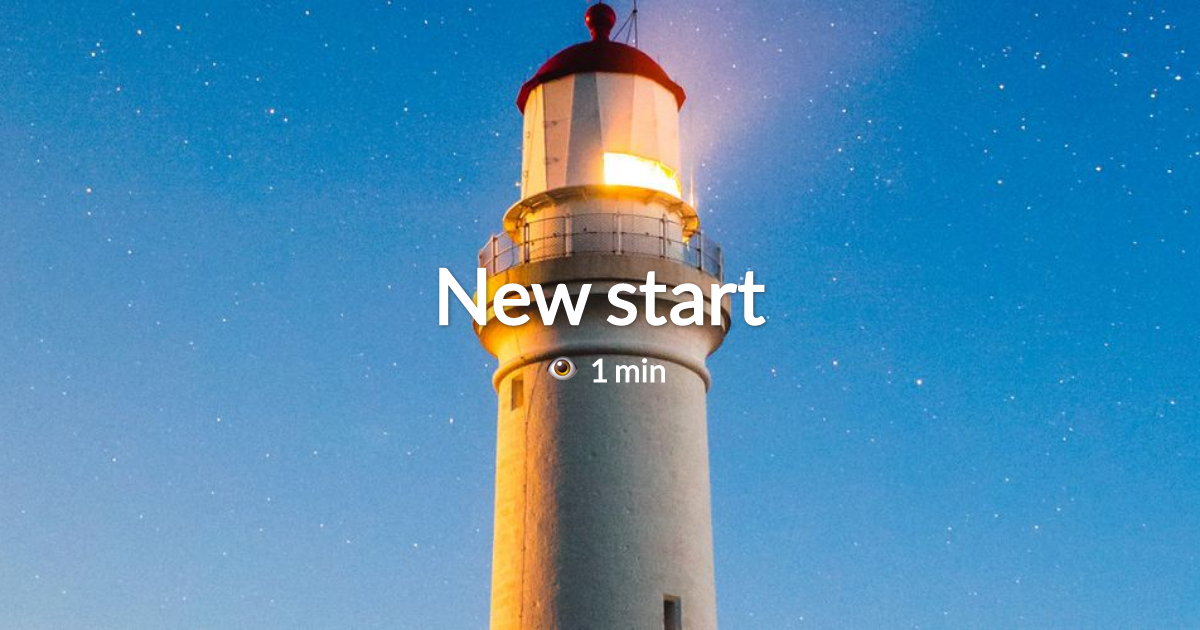
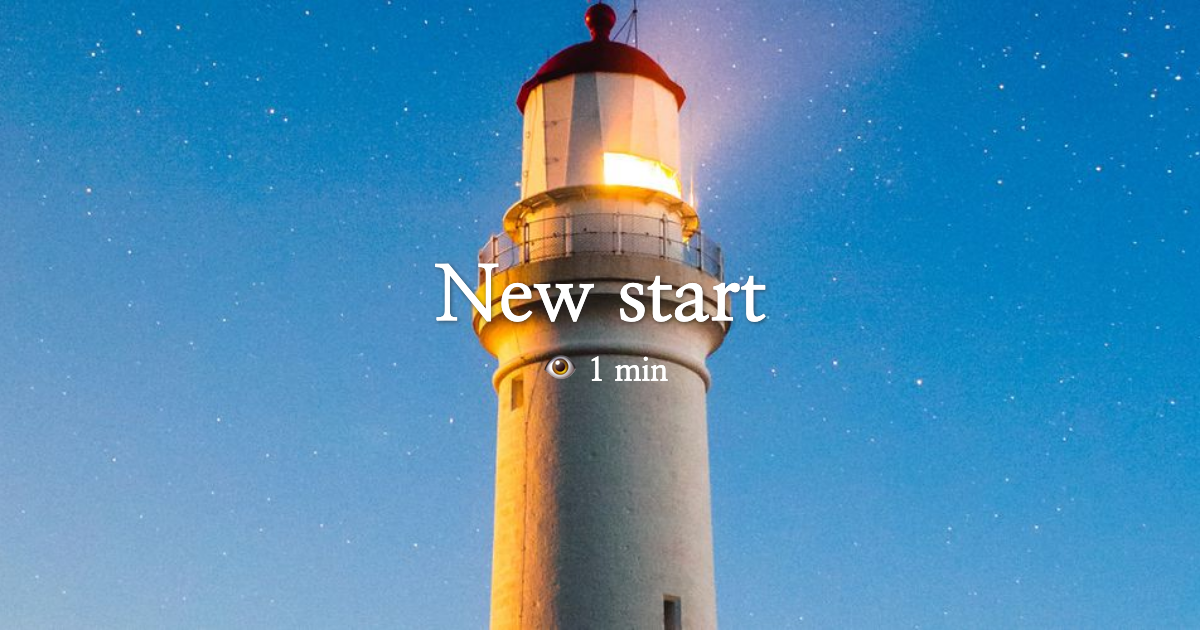
Apply webfont.

Changed region(s): [[0.3392, 0.4222, 0.6475, 0.5429], [0.4317, 0.573, 0.555, 0.6032]]

diff --git a/src/components/Content.js b/src/components/Content.js
@@ -69,8 +69,8 @@ const ContentBody = styled.div`
     margin-right: -1em;
     margin-left: -1em;
     padding-right: 1em;
-    padding-left: .75em;
-    border-left: .25em solid #ffa7c4;
+    padding-left: 0.75em;
+    border-left: 0.25em solid #ffa7c4;
   }
 
   & p > code.language-text,
@@ -92,7 +92,7 @@ const ContentBody = styled.div`
     & td {
       padding: 0.5em;
       background: #e8e8e8;
-      border-bottom: 2px solid white; 
+      border-bottom: 2px solid white;
     }
   }
 `

diff --git a/src/components/Commons.js b/src/components/Commons.js
@@ -10,7 +10,7 @@ export const GlobalStyle = createGlobalStyle`
 }
 
 body {
-  font-family: "Lato", sans-serif;
+  font-family: 'Nanum Myeongjo', serif;
   color: #222222cc;
   background-color: #e8e8e8;
 }
